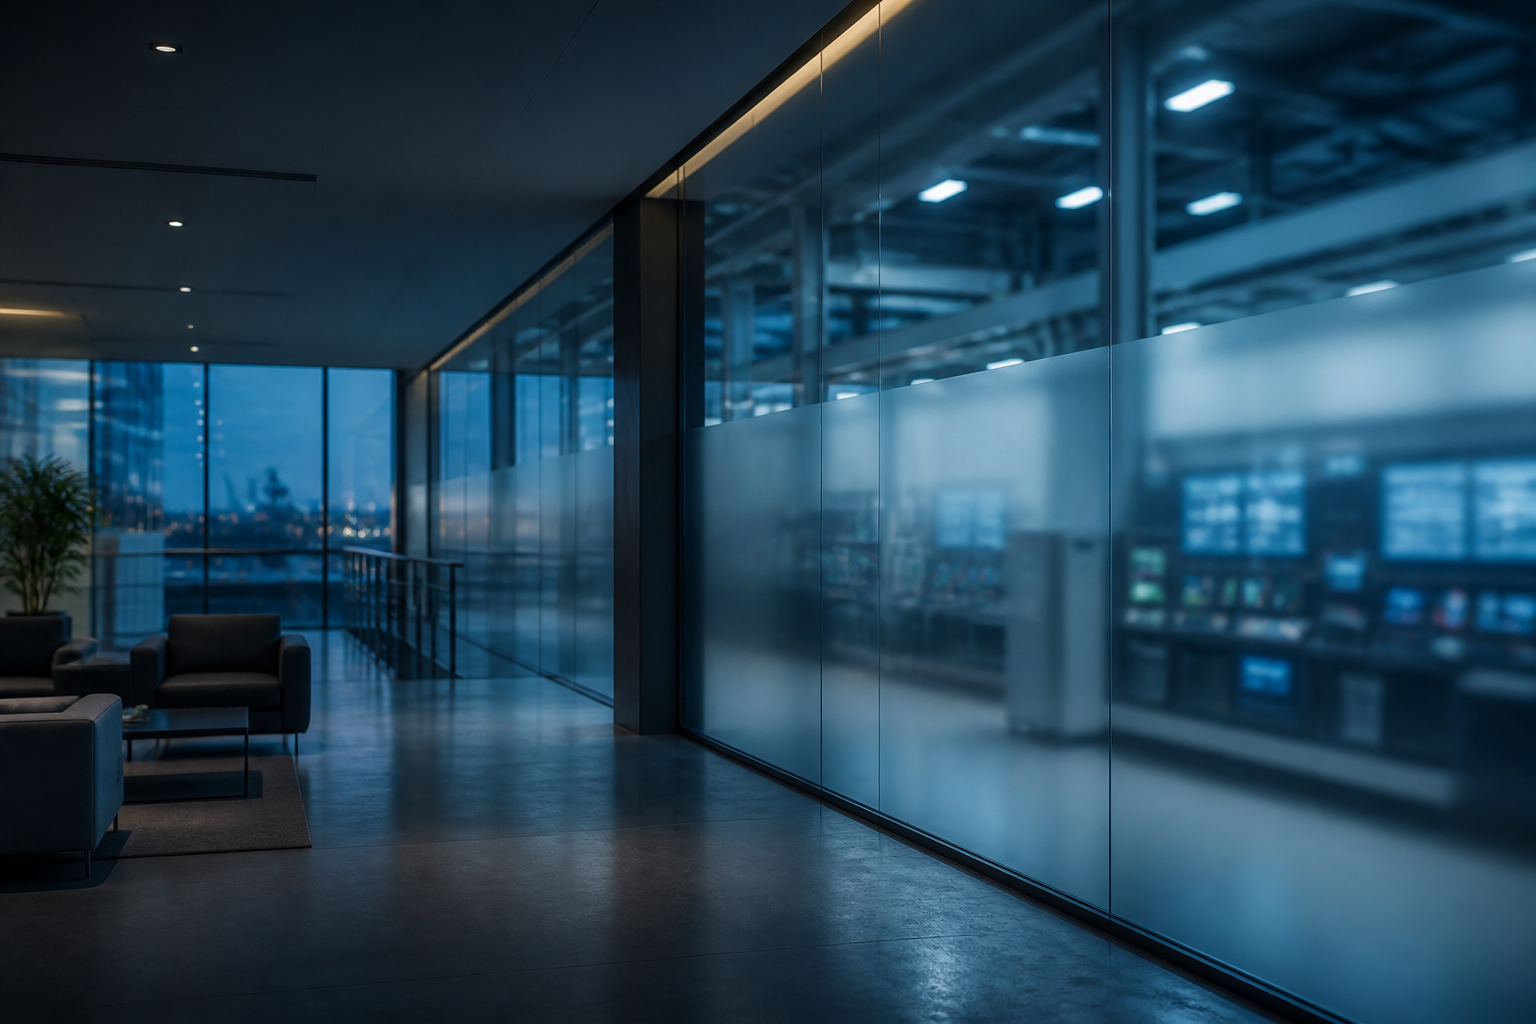
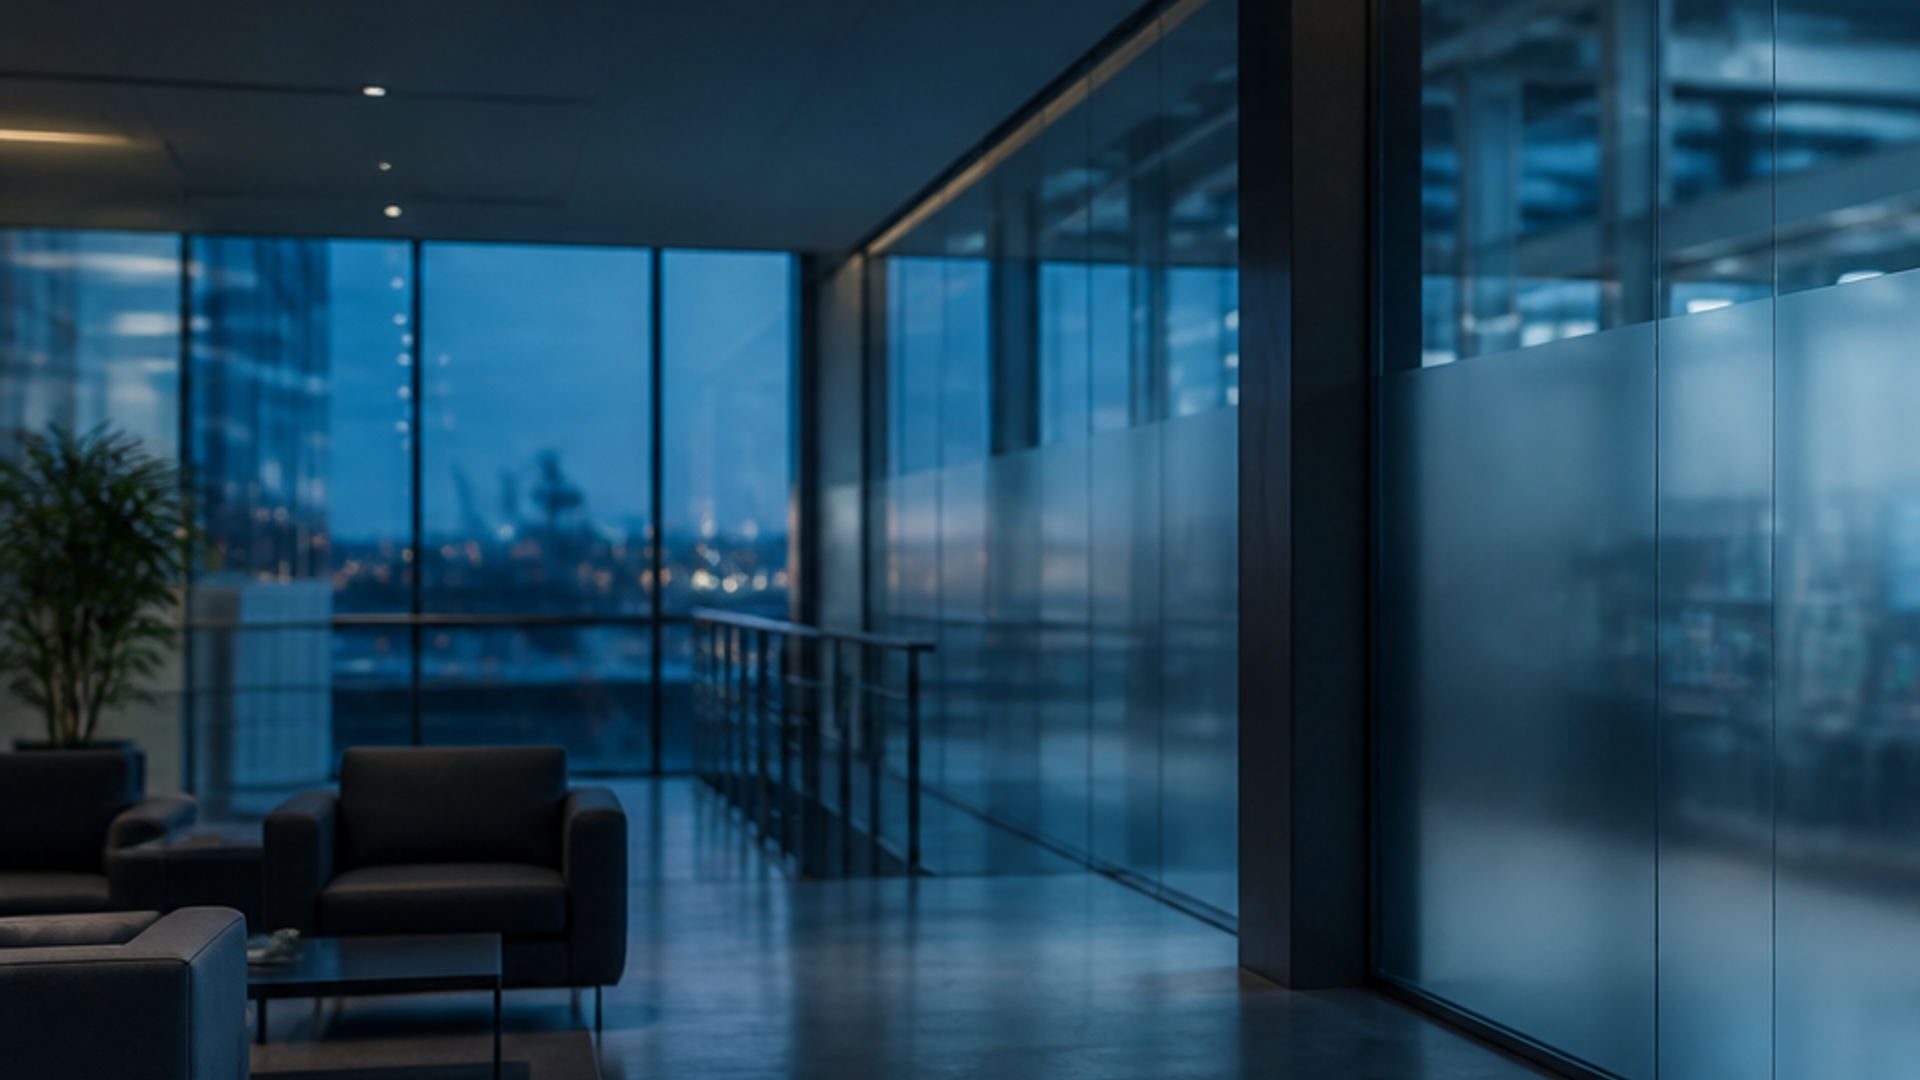
Fix Northstar login backdrop: crop bright panel and hide accent gradients.

diff --git a/src/components/layout/MarketingPageShell.tsx b/src/components/layout/MarketingPageShell.tsx
@@ -18,6 +18,8 @@ type MarketingPageShellProps = {
   backgroundImageUnoptimized?: boolean;
   /** Use CSS background-image (full static file, best for marketing heroes). */
   backgroundImageViaCss?: boolean;
+  /** Hide default blue/teal radial accents (cleaner tenant backdrops). */
+  hideAccentGradients?: boolean;
 };
 
 export default function MarketingPageShell({
@@ -30,6 +32,7 @@ export default function MarketingPageShell({
   backgroundImageQuality = 75,
   backgroundImageUnoptimized = false,
   backgroundImageViaCss = false,
+  hideAccentGradients = false,
 }: MarketingPageShellProps) {
   return (
     <section className={`relative min-h-[100dvh] overflow-x-hidden bg-[#020617] ${className}`}>
@@ -52,13 +55,15 @@ export default function MarketingPageShell({
           />
         )}
         <div className={overlayClassName} />
-        <div
-          className="absolute inset-0"
-          style={{
-            background:
-              "radial-gradient(ellipse 70% 55% at 15% 20%, rgba(37,99,235,0.18), transparent 55%), radial-gradient(ellipse 60% 45% at 85% 80%, rgba(6,182,212,0.1), transparent 60%)",
-          }}
-        />
+        {!hideAccentGradients ? (
+          <div
+            className="absolute inset-0"
+            style={{
+              background:
+                "radial-gradient(ellipse 70% 55% at 15% 20%, rgba(37,99,235,0.18), transparent 55%), radial-gradient(ellipse 60% 45% at 85% 80%, rgba(6,182,212,0.1), transparent 60%)",
+            }}
+          />
+        ) : null}
       </div>
 
       <div className={contentClassName}>{children}</div>

diff --git a/src/lib/demo/login-branding.ts b/src/lib/demo/login-branding.ts
@@ -1,9 +1,9 @@
 /** Full-screen backdrop for Northstar demo workspace login + password reset. */
 export const NORTHSTAR_LOGIN_BACKGROUND = "/images/workspaces/northstar-login-bg.png";
 
-/** Corporate interior — keep structure visible behind the login card. */
+/** Corporate interior — lounge left, avoid bright server-room panel on the right. */
 export const NORTHSTAR_LOGIN_BACKGROUND_CLASS =
-  "object-cover object-[center_45%] opacity-[0.48] sm:object-center sm:opacity-[0.54]";
+  "object-cover object-[18%_46%] opacity-[0.5] sm:object-[20%_44%] sm:opacity-[0.54]";
 
 /** Navy + teal fade for Northstar wordmark contrast. */
 export const NORTHSTAR_LOGIN_OVERLAY_CLASS =

diff --git a/src/components/auth/ResetPasswordPage.tsx b/src/components/auth/ResetPasswordPage.tsx
@@ -259,6 +259,7 @@ export default function ResetPasswordPage({
 
   return (
     <MarketingPageShell
+      hideAccentGradients={brand === "northstar"}
       backgroundImage={
         brand === "onwardair"
           ? ONWARDAIR_LOGIN_BACKGROUND

diff --git a/src/components/auth/Unit311LoginPage.tsx b/src/components/auth/Unit311LoginPage.tsx
@@ -351,6 +351,7 @@ export default function Unit311LoginPage({
 
   return (
     <MarketingPageShell
+      hideAccentGradients={isNorthstar}
       backgroundImage={
         isOnwardAir
           ? ONWARDAIR_LOGIN_BACKGROUND
